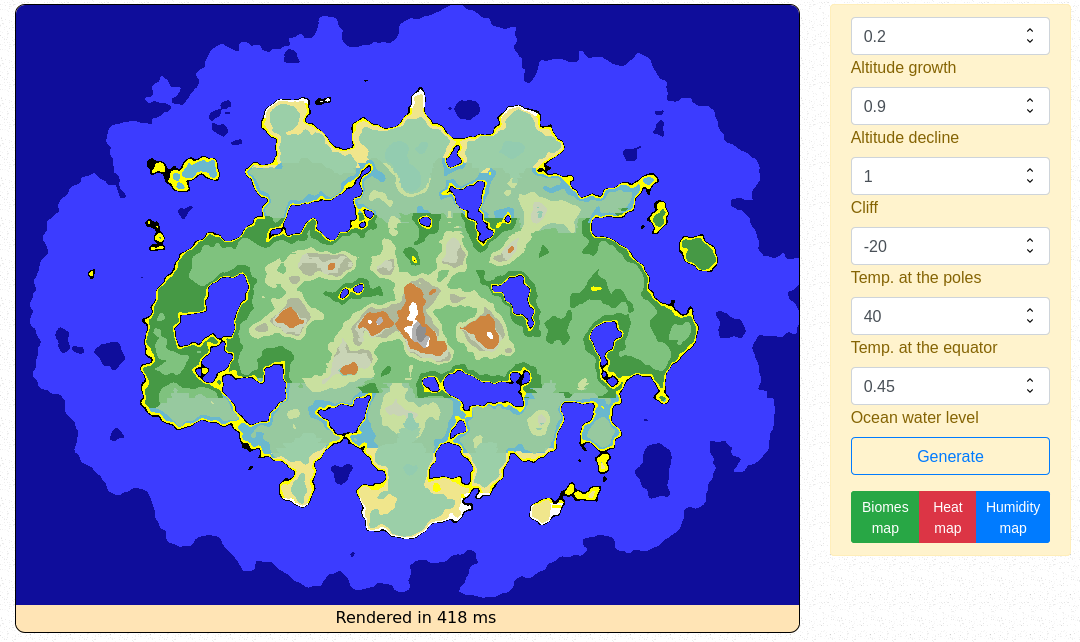
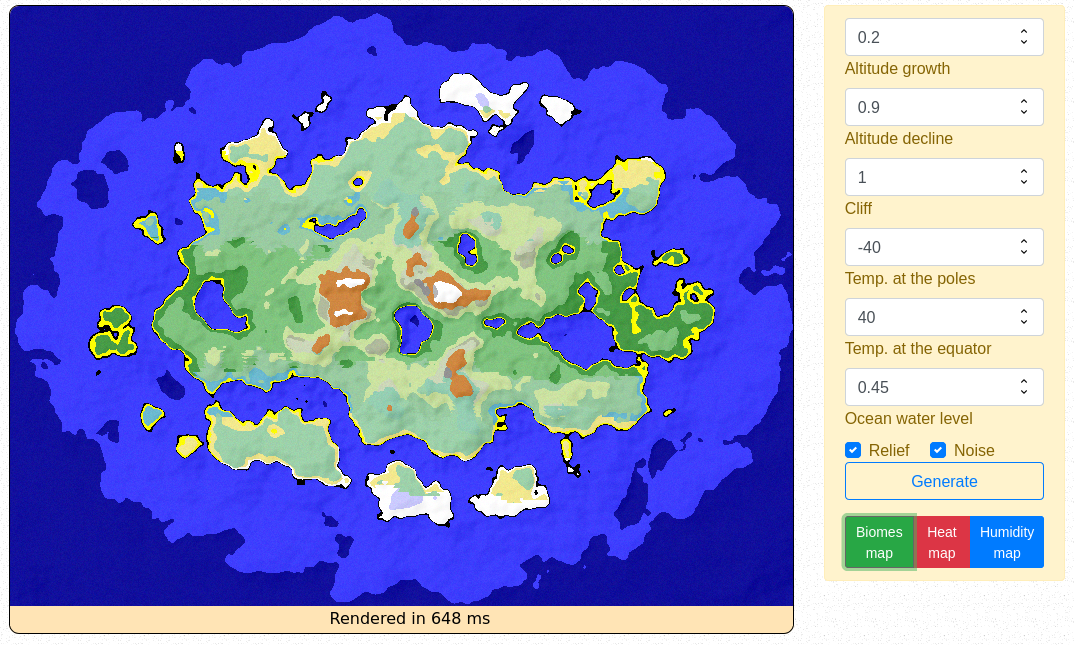
Add some noise and relief effects

diff --git a/src/App.html b/src/App.html
@@ -7,6 +7,7 @@
 		Row,
 		Alert,
 		Input,
+		CustomInput,
 		Label
 	} from 'sveltestrap';
 	import {
@@ -26,6 +27,8 @@
 	var polustemp = -20;
 	var equatortemp = 40;
 	var generatebutton = true;
+	var noisemap = true;
+	var reliefmap = true;
 	for (var i = 0; i < noisearray.length; i++) {
 		noisearray[i] = new Array(height);
 		heatmap[i] = new Array(height);
@@ -34,7 +37,7 @@
 	var canvas = null;
 	var data = null;
 	let biomes = [
-// name, attitude range, temp range, humidity range, rgb
+		// name, attitude range, temp range, humidity range, rgb
 		['anything', -10, 10, -100, 100, -2000, 2000, 143, 143, 143],
 		['snow', 0.9, 3, -50, 100, 30, 1500, 255, 255, 255],
 		['bare', 0.9, 3, -50, 100, 10, 30, 180, 180, 180],
@@ -42,7 +45,7 @@
 		['snow', 0, 0.03, -50, 0, 0, 1500, 255, 255, 255],
 		['snow', 0.03, 0.7, -50, -10, 250, 1500, 255, 255, 255],
 		['tundrasnow', 0.03, 0.7, -50, -10, 0, 250, 200, 200, 255],
-	  ['taiga', 0.03, 0.7, -10, 10, 0, 100, 147, 204, 176],
+		['taiga', 0.03, 0.7, -10, 10, 0, 100, 147, 204, 176],
 		['borealforest', 0.03, 0.7, -10, 10, 100, 300, 155, 207, 168],
 		['swamp', 0.03, 0.7, -10, 10, 300, 1500, 240, 230, 140],
 		['desert', 0.03, 0.7, 10, 22, 0, 70, 201, 212, 182],
@@ -56,8 +59,8 @@
 		['mountain', 0.7, 0.9, -50, 100, 0, 150, 205, 133, 63],
 		['grassmountain', 0.7, 0.9, -50, 100, 150, 1500, 151, 156, 106],
 		['beach', 0, 0.03, 0, 50, 0, 1500, 255, 255, 0],
-		['water', -0.3, 0, -50, 50, 0, 1500,60, 60, 255],
-		['darkwater', -3, -0.3,-50, 50, 0, 1500, 15, 13, 155],
+		['water', -0.3, 0, -50, 50, 0, 1500, 60, 60, 255],
+		['darkwater', -3, -0.3, -50, 50, 0, 1500, 15, 13, 155],
 	]
 
 	let temps = [
@@ -82,10 +85,10 @@
 		canvas = document.getElementsByTagName('canvas')[0];
 		canvas.width = width;
 		canvas.height = height + 20;
-		canvas.addEventListener('click',function(evt){
+		canvas.addEventListener('click', function(evt) {
 			let xx = evt.clientX - 10;
-alert(xx + ',' + evt.clientY + ' att: ' + noisearray[xx][evt.clientY]+ ' heat: ' +  Math.round(heatmap[xx][evt.clientY])+ ' hum: ' +  Math.round(humiditymap[xx][evt.clientY]));
-},false);
+			alert(xx + ',' + evt.clientY + ' att: ' + noisearray[xx][evt.clientY] + ' heat: ' + Math.round(heatmap[xx][evt.clientY]) + ' hum: ' + Math.round(humiditymap[xx][evt.clientY]));
+		}, false);
 	}
 
 	function drawPixel(x, y, a, arrayset, thresh, border) {
@@ -95,12 +98,18 @@ alert(xx + ',' + evt.clientY + ' att: ' + noisearray[xx][evt.clientY]+ ' heat: '
 				if (a > item[1] + thresh && a <= item[2] + thresh) {
 					if (heatmap[x][y] > item[3] && heatmap[x][y] <= item[4]) {
 						if (humiditymap[x][y] > item[5] && humiditymap[x][y] <= item[6]) {
-					for (let i = 0; i < 3; i++) {
-						data[index + i] = item[i + 7] + Math.round(Math.random()*15) - 5;
+							for (let i = 0; i < 3; i++) {
+								data[index + i] = item[i + 7];
+								if (noisemap) {
+									data[index + i] += Math.round(Math.random() * 15) - 5;
+								}
+								if (reliefmap) {
+									data[index + i] -= Math.max(Math.round((noisearray[Math.max(0, x - 1)][Math.max(0, y - 1)] - noisearray[x][y]) * 500), 0);
+								}
+							}
+						}
 					}
 				}
-			}
-			}
 			});
 			if (Math.round(a * 80) == Math.round((thresh) * 80)) {
 				data[index + 0] = data[index + 1] = data[index + 2] = 0;
@@ -162,7 +171,7 @@ alert(xx + ',' + evt.clientY + ' att: ' + noisearray[xx][evt.clientY]+ ' heat: '
 			for (let x = 0; x < width; x++) {
 				humiditymap[x][y] = (noise.perlin2(x / 30, y / 30) + 0.5) * 100;
 				humiditymap[x][y] += Math.max(0, (threshold + 0.15 - noisearray[x][y]) * 500) + Math.max(0, (threshold + 0.4 - noisearray[x][y]) * 300) + Math.max(0, (threshold + 0.7 - noisearray[x][y]) * 200);
-				humiditymap[x][y] = Math.max(0,humiditymap[x][y]);
+				humiditymap[x][y] = Math.max(0, humiditymap[x][y]);
 			}
 		}
 	}
@@ -236,6 +245,7 @@ alert(xx + ',' + evt.clientY + ' att: ' + noisearray[xx][evt.clientY]+ ' heat: '
 	:global(body) {
[1 lines of base64/hex data omitted]
 	}
+
 	#container {
 		border-radius: 10px;
 		background-color: moccasin;
@@ -251,24 +261,26 @@ alert(xx + ',' + evt.clientY + ' att: ' + noisearray[xx][evt.clientY]+ ' heat: '
 <div id="background">
 	<Row>
 		<Col sm="12" md={{ size: 6, offset: 2 }}>
-			<div id="container">
-				<canvas id="canvas"></canvas>
-			</div>
+		<div id="container">
+			<canvas id="canvas"></canvas>
+		</div>
 		</Col>
 		<Col xs="2">
 		<Alert color="warning" Generation>
-			<Input type="number" min="0" max="1" bind:value={a} step="0.1" on:change={activateButton}/>
+			<Input type="number" min="0" max="1" bind:value={a} step="0.1" on:change={activateButton} />
 			<Label>Altitude growth</Label>
-			<Input type="number" min="0" max="1" bind:value={b} step="0.1" on:change={activateButton}/>
+			<Input type="number" min="0" max="1" bind:value={b} step="0.1" on:change={activateButton} />
 			<Label>Altitude decline</Label>
-			<Input type="number" min="0" max="2" bind:value={c} step="0.1" on:change={activateButton}/>
+			<Input type="number" min="0" max="2" bind:value={c} step="0.1" on:change={activateButton} />
 			<Label>Cliff</Label>
-			<Input type="number" min="-40" max="50" bind:value={polustemp} step="1" on:change={activateButton}/>
+			<Input type="number" min="-40" max="50" bind:value={polustemp} step="1" on:change={activateButton} />
 			<Label>Temp. at the poles</Label>
-			<Input type="number" min="-40" max="50" bind:value={equatortemp} step="1" on:change={activateButton}/>
+			<Input type="number" min="-40" max="50" bind:value={equatortemp} step="1" on:change={activateButton} />
 			<Label>Temp. at the equator</Label>
 			<Input type="number" min="0.25" max="2" bind:value={threshold} step="0.01" on:change={drawMap} />
 			<Label>Ocean water level</Label>
+			<CustomInput type="checkbox" label="Relief" id="reliefmap" inline bind:checked={reliefmap} />
+			<CustomInput type="checkbox" label="Noise" inline id="noisemap" bind:checked={noisemap} />
 			<Button block color="primary" outline={generatebutton} on:click={generateMap}>Generate</Button>
 			<p></p>
 			<ButtonGroup>
